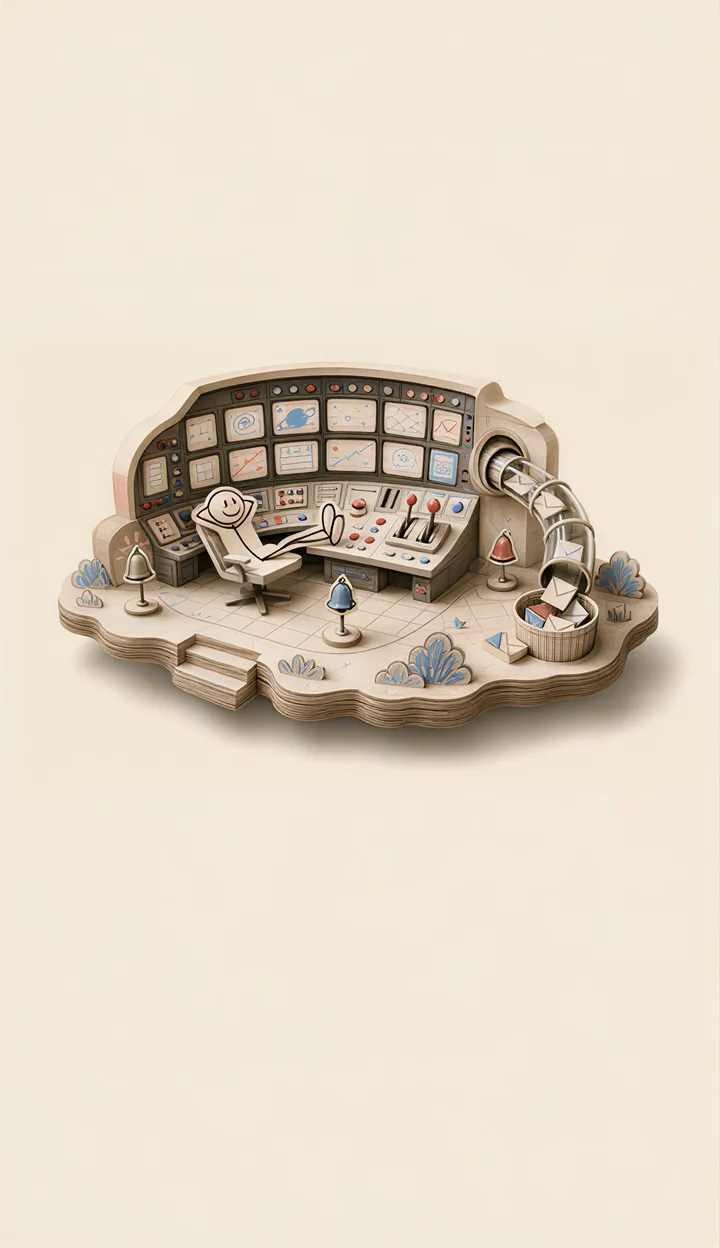
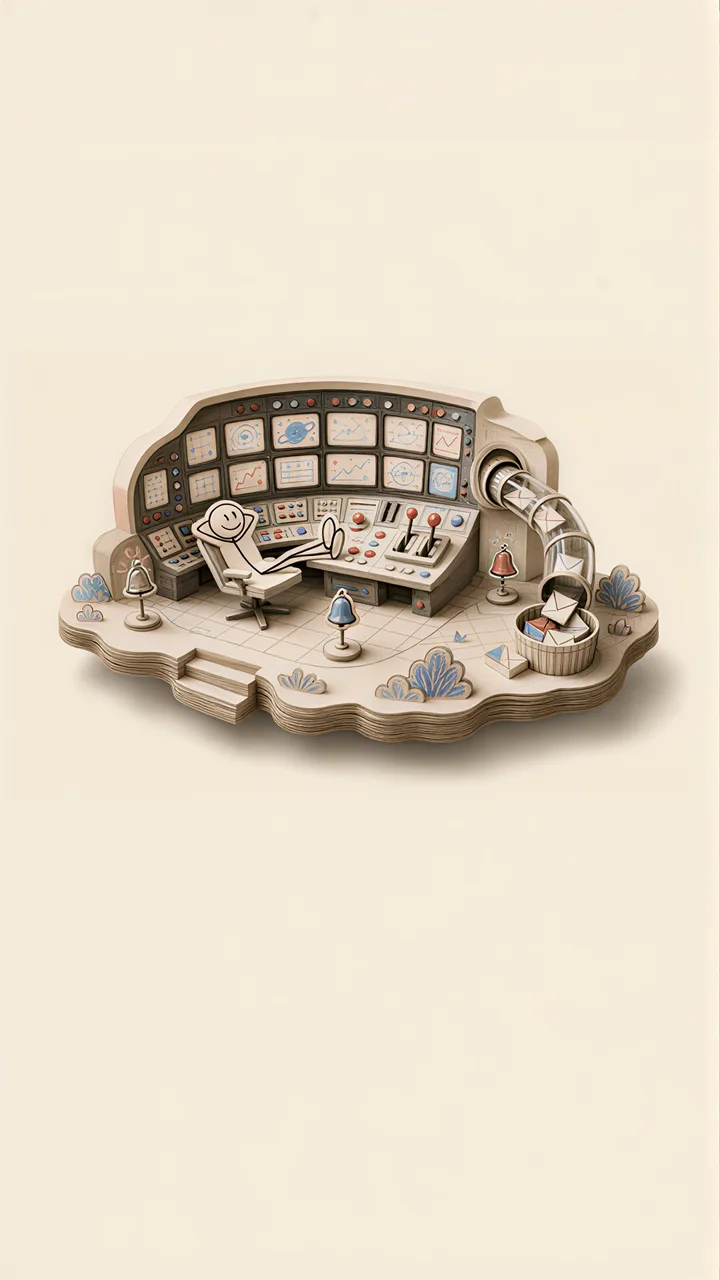
feat(landing): re-render world clips at native 1024x576 with av1 delivery (#803)
* feat(landing): re-render world clips at native 1024x576 with av1 delivery

- all 22 clips re-rendered at 1024x576/576x1024 native wan, seedvr2-upscaled to 1080p-class; two weak slump landings curated out via seed re-rolls; all 20 seams re-verified frame-locked
- desktop ships av1 primary (1440w, 23 mb set) with h264 fallback (1104w, 20 mb) picked at runtime via canPlayType in WorldClient; mobile stays h264 (720w, 17 mb); vendored engine untouched
- adr-0019 weight/pipeline numbers refreshed (~64 mb total stored, one set streamed per visitor)

* chore(lint): turn off core no-unused-vars for vendored scrub engine

the active rule for a plain .js file is core no-unused-vars, not the ts-scoped variant; per the ai-review-gate finding on pr 762

---------

Changed region(s): [[0.0917, 0.2812, 0.9167, 0.625]]

diff --git a/apps/landing/src/app/world/world-config.test.ts b/apps/landing/src/app/world/world-config.test.ts
@@ -1,6 +1,6 @@
 import { describe, expect, it } from 'vitest';
 
-import { WORLD_CONFIG } from './world-config';
+import { withAv1Sources, WORLD_CONFIG } from './world-config';
 
 // Typed-data invariants for the /world scroll-flight config. The media assets
 // themselves are rendered separately and land in public/world/ later — this
@@ -50,5 +50,37 @@ describe('world-config data integrity', () => {
     for (const path of [...connectors, ...connectorsMobile]) {
       expect(path.startsWith('/world/')).toBe(true);
     }
+  });
+});
+
+describe('withAv1Sources', () => {
+  it('rewrites every section clip and connector to the .av1.mp4 encode', () => {
+    const av1Config = withAv1Sources(WORLD_CONFIG);
+    expect(av1Config.sections.map((s) => s.clip)).toEqual(
+      WORLD_CONFIG.sections.map((s) => s.clip.replace(/\.mp4$/, '.av1.mp4'))
+    );
+    expect(av1Config.connectors).toEqual(
+      WORLD_CONFIG.connectors.map((c) => c.replace(/\.mp4$/, '.av1.mp4'))
+    );
+  });
+
+  it('leaves mobile clips, mobile connectors, and every still/poster untouched', () => {
+    const av1Config = withAv1Sources(WORLD_CONFIG);
+    expect(av1Config.sections.map((s) => s.clipMobile)).toEqual(
+      WORLD_CONFIG.sections.map((s) => s.clipMobile)
+    );
+    expect(av1Config.sections.map((s) => s.still)).toEqual(
+      WORLD_CONFIG.sections.map((s) => s.still)
+    );
+    expect(av1Config.sections.map((s) => s.stillMobile)).toEqual(
+      WORLD_CONFIG.sections.map((s) => s.stillMobile)
+    );
+    expect(av1Config.connectorsMobile).toEqual(WORLD_CONFIG.connectorsMobile);
+  });
+
+  it('does not mutate the input config', () => {
+    const snapshot = JSON.parse(JSON.stringify(WORLD_CONFIG));
+    withAv1Sources(WORLD_CONFIG);
+    expect(WORLD_CONFIG).toEqual(snapshot);
   });
 });

diff --git a/apps/landing/src/app/world/WorldClient.tsx b/apps/landing/src/app/world/WorldClient.tsx
@@ -3,7 +3,7 @@
 import { useEffect, useRef } from 'react';
 
 import { mountScrollWorld } from './scrub-engine';
-import { WORLD_CONFIG } from './world-config';
+import { withAv1Sources, WORLD_CONFIG } from './world-config';
 
 // Theme tokens the vendored engine reads off .sw-root/:root (see scrub-engine.js's
 // header comment). Page background matches --sw-bg so the still posters blend
@@ -42,7 +42,12 @@ export function WorldClient() {
     const container = containerRef.current;
     if (!container || mountedRef.current) return;
     mountedRef.current = true;
-    mountScrollWorld(container, WORLD_CONFIG);
+    // Desktop ships AV1 (~40% smaller at equal quality) with the H.264 files as
+    // the fallback for browsers without AV1 decode (older Safari); mobile stays
+    // H.264-only because phone software AV1 decode can't keep up with scrubbing.
+    const av1 =
+      document.createElement('video').canPlayType('video/mp4; codecs="av01.0.08M.08"') !== '';
+    mountScrollWorld(container, av1 ? withAv1Sources(WORLD_CONFIG) : WORLD_CONFIG);
   }, []);
 
   return (

diff --git a/apps/landing/src/app/world/world-config.ts b/apps/landing/src/app/world/world-config.ts
@@ -150,3 +150,19 @@ export const WORLD_CONFIG: WorldConfig = {
     '/world/vid/conn5-m.mp4',
   ],
 };
+
+const toAv1 = (path: string): string => path.replace(/\.mp4$/, '.av1.mp4');
+
+/**
+ * Returns a copy of `config` pointing desktop clips (section.clip, connectors)
+ * at their AV1 encode instead of H.264. Mobile stays H.264-only — untouched:
+ * clipMobile, connectorsMobile, still, and stillMobile. Pure — never mutates
+ * `config`; no DOM access (the AV1-support check lives in WorldClient.tsx).
+ */
+export function withAv1Sources(config: WorldConfig): WorldConfig {
+  return {
+    ...config,
+    sections: config.sections.map((section) => ({ ...section, clip: toAv1(section.clip) })),
+    connectors: config.connectors.map(toAv1),
+  };
+}
